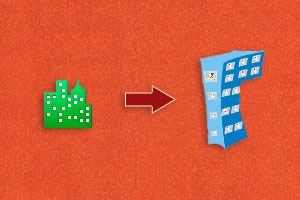
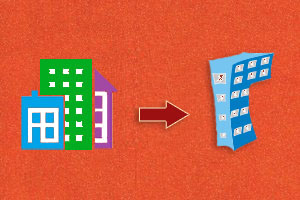
web
План такой:
v 1. Получить SenderID.
v 2. Загружаем справочники.
v 3. Загружаем дома.
v 4. Загружаем и выгружаем л.с.
v 5. Загружаем выгружаем ПУ.
6. Выгружаем ПД.

Former-commit-id: 16c0897cded770aabccab39c8a508d85c88c39e8

Changed region(s): [[0.06, 0.27, 0.63, 0.75], [0.63, 0.24, 0.93, 0.78]]

diff --git a/site/css/style.css b/site/css/style.css
@@ -23,6 +23,14 @@ body {
     font-family: 'PT Sans', sans-serif, Arial, Tahoma;
     background: url('../images/whitey.png');
     font-size: 12px;
+    -webkit-font-smoothing: antialiased; /* Сгладим шрифт*/
+    -webkit-touch-callout: none; /* iOS Safari */
+    -webkit-user-select: none;   /* Chrome/Safari/Opera */
+    -khtml-user-select: none;    /* Konqueror */
+    -moz-user-select: none;      /* Firefox */
+    -ms-user-select: none;       /* Internet Explorer/Edge */
+    user-select: none;           /* Non-prefixed version, currently
+                                  not supported by any browser */
 }
 .container {
     *zoom: 1;
@@ -30,6 +38,8 @@ body {
     margin: 10px auto;
     border: 1px solid #eee;
     box-shadow: 0 5px 30px rgba(0,0,0,0.6);
+    -moz-box-shadow: 0 5px 30px rgba(0,0,0,0.6);
+    -webkit-box-shadow: 0 5px 30px rgba(0,0,0,0.6);
 }
 .container:before,
 .container:after {
@@ -42,6 +52,8 @@ body {
 .thumb {
     color: #eee;
     box-shadow: 0 5px 5px rgba(0,0,0,0.2) inset;
+    -moz-box-shadow: 0 5px 5px rgba(0,0,0,0.2) inset;
+    -webkit-box-shadow: 0 5px 5px rgba(0,0,0,0.2) inset;
     background: url('../images/black-Linen.png');
     position: relative;
     width: 300px;
@@ -68,13 +80,53 @@ body {
     left: 0;
     margin: 30px;
 }
+/***FOOTER***/
+.footer {
+    clear: both;
+    position: relative;
+    display: block;
+    border-top: 1px solid #ccc;
+    padding: 15px 20px 0 20px;
+    margin: 30px auto 0;
+    height: 45px;
+    bottom: 0;
+    width: 906px;
+    text-align: center;
+    font-size: 14px;
+}
+.footer span {
+    vertical-align: 4px;
+    color: #777;
+    text-shadow: 1px 1px 1px white;
+}
+.footer img {
+    width: 110px;
+}
+
+.footer .show-log {
+    bottom: 0;
+    font-size: 12px;
+    color: #00a2e2;
+    cursor: pointer;
+    /*display: block;*/
+    /*text-align: right;*/
+}
 
 /***SETTINGS BUTTON***/
 .container-settings {
-    margin: 10px auto;
+    margin: 15px auto;
     width: 906px;
-    height: 15px;
+    /*height: 15px;*/
     position: relative;
+    text-align: center;
+}
+.container-settings h1 {
+    text-shadow:
+            1px 1px 1px #fffbe8,
+            1px 1px 2px #454544;
+    /*text-shadow: 1px 1px 1px #fffbe8, 1px 1px 2px #8d8d8d;*/
+    color: #454544;
+    cursor: default;
 }
 .settings {
     display: none;
@@ -82,6 +134,8 @@ body {
     -moz-box-shadow: 0 5px 20px 8px rgba(255,255,255,1);
     -webkit-box-shadow: 0 5px 20px 8px rgba(255,255,255,1);
     border-radius: 30px;
+    -moz-border-radius: 30px;
+    -webkit-border-radius: 30px;
     position: absolute;
     top: 10px;
     right: -70px;
@@ -126,6 +180,8 @@ body {
     background: url('../images/whitey.png') -5px -5px;
     border: 5px solid rgba(197, 192, 192, .7);
     border-radius: 10px;
+    -moz-border-radius: 10px;
+    -webkit-border-radius: 10px;
     height: 198px;
     position: fixed;
     width: 345px;
@@ -138,8 +194,12 @@ body {
     height: 64px;
     width: 64px;
     border-radius: 50px;
+    -moz-border-radius: 50px;
+    -webkit-border-radius: 50px;
     border: 1px solid rgba(197, 192, 192,.7);
     box-shadow: 0 2px 10px  rgba(0,0,0,.4);
+    -moz-box-shadow: 0 2px 10px  rgba(0,0,0,.4);
+    -webkit-box-shadow: 0 2px 10px  rgba(0,0,0,.4);
 }
 .label-text {
     background-color: #333;
@@ -164,6 +224,7 @@ body {
 .other-error {
     margin-top: 7px;
     margin-left: 5px;
+    text-align: left;
     display: block;
 }
 .other-error:link, .other-error:visited {
@@ -182,6 +243,8 @@ body {
     background: url('../images/whitey.png') -5px -5px;
     border: 5px solid rgba(197, 192, 192, .7);
     border-radius: 10px;
+    -moz-border-radius: 10px;
+    -webkit-border-radius: 10px;
     padding: 20px 50px 50px 50px;
     height: 350px;
     width: 500px;
@@ -208,13 +271,6 @@ body {
     font-size: 16px;
     font-weight: bold;
     color: #333;
-    -webkit-touch-callout: none; /* iOS Safari */
-    -webkit-user-select: none;   /* Chrome/Safari/Opera */
-    -khtml-user-select: none;    /* Konqueror */
-    -moz-user-select: none;      /* Firefox */
-    -ms-user-select: none;       /* Internet Explorer/Edge */
-    user-select: none;           /* Non-prefixed version, currently
-                                  not supported by any browser */
 }
 #messages {
     color: #333;
@@ -235,6 +291,8 @@ body {
     -webkit-border-radius: 5px;
     border: 0;
     box-shadow: 0 1px 10px rgba(0,0,0,.4) inset;
+    -moz-box-shadow: 0 1px 10px rgba(0,0,0,.4) inset;
+    -webkit-box-shadow: 0 1px 10px rgba(0,0,0,.4) inset;
     outline: none;
     padding: 10px;
     background-color: #eeeeee;
@@ -251,7 +309,11 @@ body {
     padding: 1px;
     display: inline-block;
     border-radius: 4px;
+    -moz-border-radius: 4px;
+    -webkit-border-radius: 4px;
     box-shadow: 0 1px 1px rgba(0,0,0,0.5);
+    -moz-box-shadow: 0 1px 1px rgba(0,0,0,0.5);
+    -webkit-box-shadow: 0 1px 1px rgba(0,0,0,0.5);
     cursor: pointer;
 
     -webkit-touch-callout: none; /* iOS Safari */
@@ -272,7 +334,11 @@ body {
     padding: 10px 35px;
     display: inline-block;
     border-radius: 3px;
+    -moz-border-radius: 3px;
+    -webkit-border-radius: 3px;
     box-shadow: 0 1px 1px rgba(255,255,255,0.3) inset;
+    -moz-box-shadow: 0 1px 1px rgba(255,255,255,0.3) inset;
+    -webkit-box-shadow: 0 1px 1px rgba(255,255,255,0.3) inset;
 }
 .button-state:hover {
     background: linear-gradient(to bottom,#3B3C40 0%,#202124 100%);
@@ -288,6 +354,8 @@ body {
 .button-state:active span {
     background: linear-gradient(to bottom,#3B3C40 0%,#515459 100%);
     box-shadow: 0 1px 3px rgba(0,0,0,0.25) inset;
+    -moz-box-shadow: 0 1px 3px rgba(0,0,0,0.25) inset;
+    -webkit-box-shadow: 0 1px 3px rgba(0,0,0,0.25) inset;
 }
 /***BUTTON***/
 /***AJAX-LOADER***/

diff --git a/site/html/index.html b/site/html/index.html
@@ -9,6 +9,7 @@
 <body>
 <noscript>Для корректной работы страницы включите JavaScript в настройках браузера</noscript>
 <div class="container-settings">
+    <h1>ПреГИС – система интеграционного взаимодействия с сервисом «ГИС ЖКХ» и программным комплексом «ГРАД»</h1>
     <div class="settings">
         <a href="/test"><img src="images/settings.png" alt="Настройки"></a>
     </div>
@@ -18,7 +19,8 @@
         <div class="content">
             <h2>Получить SenderID</h2>
             <p>
-                SenderID - согласно форматам данных информационного взаимодействия указывается ключ поставщика данных.
+                SenderID - согласно форматам данных информационного взаимодействия указывается ключ поставщика
+                данных.
                 Если, произвели изменение реквизитов компании, то необходимо повторно получить SenderID.
             </p>
         </div>
@@ -38,7 +40,7 @@
             </p>
         </div>
         <div class="wrapper">
-            <img src="images/nsi2.jpg">
+            <img src="images/nsi.jpg">
         </div>
     </div>
     <div id="getHouseUO" class="thumb">
@@ -49,7 +51,7 @@
             </p>
         </div>
         <div class="wrapper">
-            <img src="images/mkd2.jpg">
+            <img src="images/mkd.jpg">
         </div>
     </div>
     <div id="updateAccountData" class="thumb">
@@ -95,7 +97,7 @@
             </p>
         </div>
         <div class="wrapper">
-            <img src="images/pd2.jpg">
+            <img src="images/pd.jpg">
         </div>
     </div>
     <div class="thumb">
@@ -123,10 +125,15 @@
         </div>
     </div>
 </div>
+<footer class="footer">
+    <span>Разработано &#169; </span><a href="http://prog-matik.ru"><img src="images/progmatic_150x150.png"></a><span> г. Новосибирск 2016. </span>
+    <br>
+    <span class="show-log show-report">Посмотреть отчёт работы...</span>
+</footer>
 <div class="show-state">
     <div class="img"></div>
     <div class="label-text"><span>Состояние...</span></div>
-    <a href="#" class="other-error">Посмотреть лог...</a>
+    <a href="#" class="other-error show-report">Посмотреть лог...</a>
     <div class="button-state"><span>Продолжить</span></div>
 </div>
 <div class="error-list">

diff --git a/site/js/script.js b/site/js/script.js
@@ -6,9 +6,8 @@ $(function () {
     alignCenter($('.error-list'));
     $(window).resize(function () {
         alignCenter($('.show-state'));
-    });
-    $(window).resize(function () {
         alignCenter($('.error-list'));
+        footerTop();
     });
     $('.wrapper').hover(function () {
         $(this).children().stop().animate({marginTop: '80%', opacity: 0}, 600);
@@ -28,24 +27,19 @@ $(function () {
             "-webkit-box-shadow": "0 5px 20px 8px rgba(255,255,255,1)"
         });
     });
-
-    // $('#exit').click(function () {
-    //     exitRequest();
-    // });
-
     $('.button-state').click(function () {
         hideState();
         $(this).hide();
         setTimeout(function () {
             clearLabelText();
         }, 500);
-        $('#messages').val("");
+        // $('#messages').val("");
     }).hide();
 
     $('.close-dialog').click(function () {
         hideErrorList();
     });
-    $('.other-error').click(function () {
+    $('.show-report').click(function () {
         showErrorList();
     });
     $('.thumb').click(function () { // вызов отправки операции
@@ -59,6 +53,7 @@ $(function () {
             sendMessage(message);
         }
     });
+    footerTop();
 });
 function exitRequest() {
     $.ajax({
@@ -88,6 +83,15 @@ function alignCenter(elem) {
         left: ($(window).width() - elem.width()) / 2 + 'px',
         top: ($(window).height() - elem.height()) / 2 + 'px'
     });
+};
+function footerTop() {
+    var temp = 30;
+    if ($(window).height() > 800) {
+        temp = $(window).height() - 750 - parseInt($('.footer').height()) + 30;
+    } else {
+        temp = 30;
+    }
+    $('.footer').css({marginTop: temp + 'px'});
 };
 function showButton() {
     $('.button-state').show();
